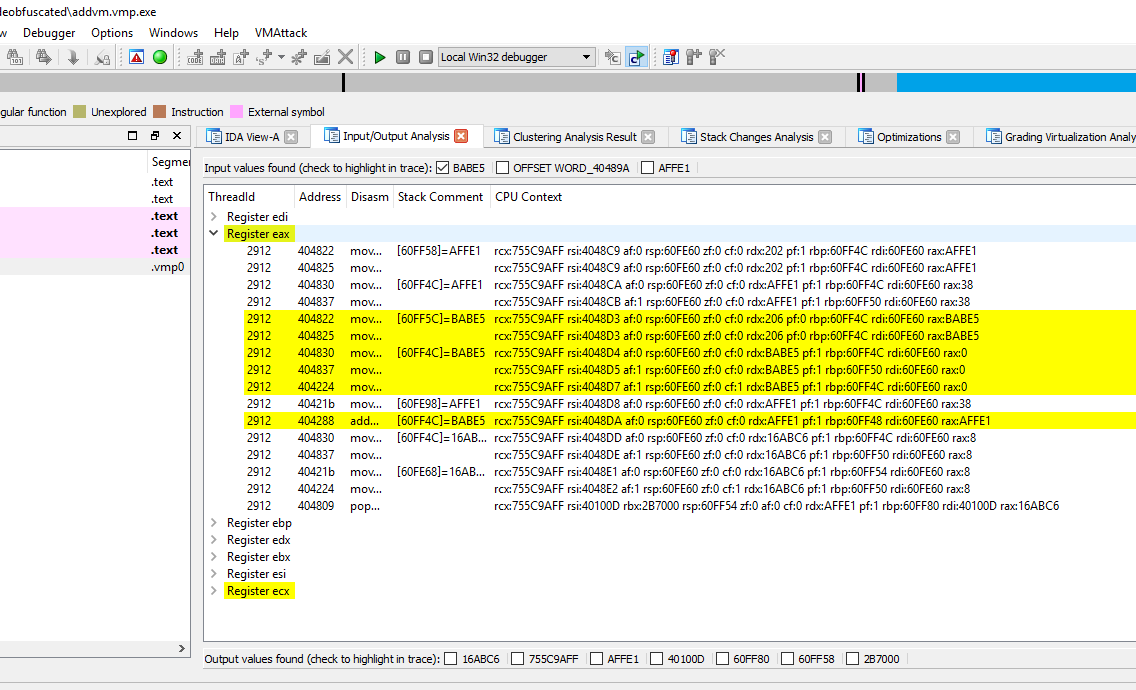
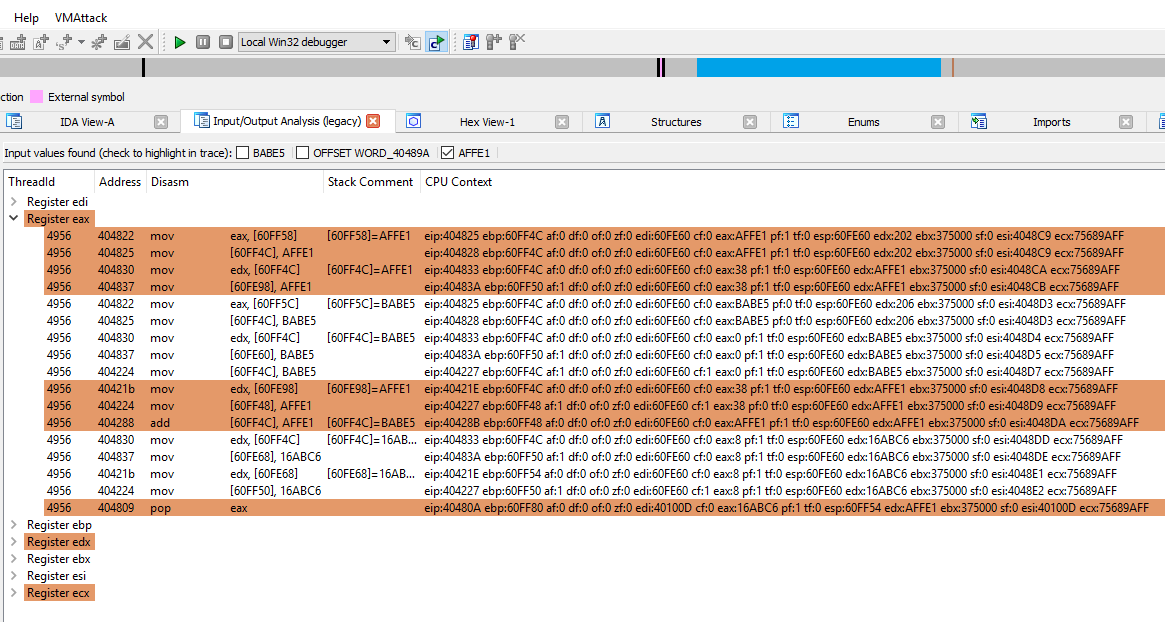
updated README.md;

diff --git a/README.md b/README.md
@@ -73,7 +73,7 @@ In the case of addvmp it will be enough to select the highest grade to be presen
 
 Lets assume we have a more complicated function and the _grading analysis_ did not lead us to the relevant instructions.
 One of the _semi-automated analysis_ capabilities could present a viable alternative or even show us which analysis function failed the grading system.
-The _input/output analysis_ could provide leads as to how the input arguments of the VM function are used and whether there is a connection between function input and function output. By checking the two input values `AFFE1` and `BABE5` and additionally the output value `16ABC6` it becomes evident which register contains the important instructions for out obfuscated function and how the `eax` return value came to be `16ABC6`.
+The _input/output analysis_ could provide leads as to how the input arguments of the VM function are used and whether there is a connection between function input and function output. By checking the two input values `AFFE1` and `BABE5` and additionally the output value `16ABC6` it becomes evident which register contains the important instructions for our obfuscated function and how the `eax` return value came to be `16ABC6` (=AFFE1+BABE5).
 
 ![alt text](screenshots/InputOutput3.png "Input/Output Success")
 
@@ -224,15 +224,17 @@ As an example lets assume we are interested in the value of the `eax` register. 
 
 By checking the check boxes of the values the viewer adds colorization to them:
 
-- Yellow: input values
-- Red: output values
-- Green: both
+- Rust red: input values
+- Violet: output values
+- Olive: both
 
-![alt text](screenshots/InputOutput3.png "Input/Output Success")
+Colorization takes into account not only values used in the disasm section **but also the CPU context!**
 
-If a register turns green it is an indication, that its trace lines contain both a input and an output parameter. This means the register handles both the selected input and output values and either computations take place or the values are part of the trace lines CPU context.
+![alt text](screenshots/InputOutput2.png "Input/Output Success")
 
-![alt text](screenshots/InputOutput2.png "Input/Output Viewer")
+If a register turns olive it is an indication, that its trace lines contain both a input and an output parameter. This means the register handles both the selected input and output values and either computations take place or the values are part of the trace lines CPU context.
+
+![alt text](screenshots/InputOutput3.png "Input/Output Viewer")
 
 **Clustering Analysis**
 
